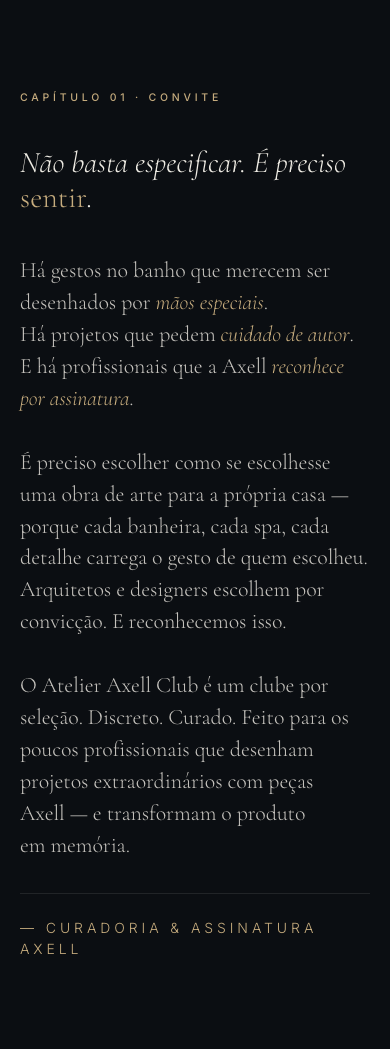
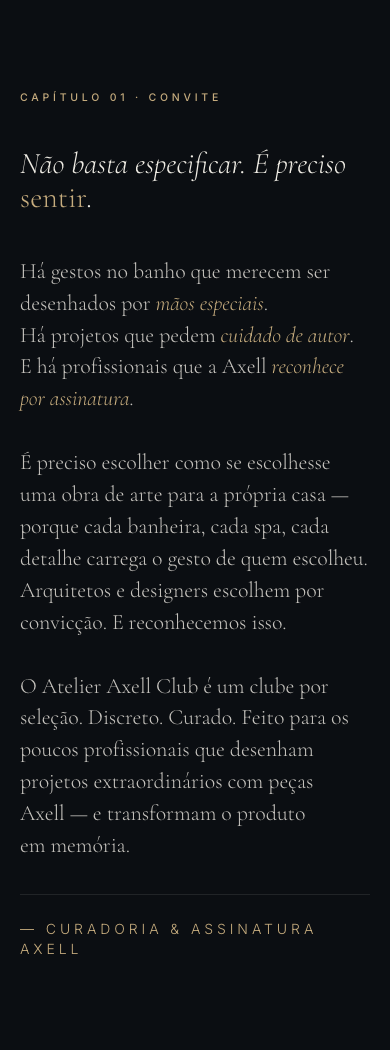
feat: approved no-class convite at /atelier/convite/
Chapter label h2 with the prefix from block CSS, title p > strong, the copy
as a quote signed in its citation, and the left column with the new
"Sticky on desktop" column style (the source side is sticky above 900px,
which also changes how Chrome paints it). 0.00% at 1440/768/390 against the
convite bases, now captured as the section on its own.

diff --git a/content/pages/convite.html b/content/pages/convite.html
@@ -1,0 +1,31 @@
+<!-- wp:group {"tagName":"section","metadata":{"name":"Convite"},"align":"full","style":{"spacing":{"padding":{"top":"clamp(5.625rem, 13vw, 11.25rem)","bottom":"clamp(5.625rem, 13vw, 11.25rem)","left":"clamp(1.25rem, 4vw, 3.75rem)","right":"clamp(1.25rem, 4vw, 3.75rem)"}}},"backgroundColor":"ink","layout":{"type":"default"},"anchor":"convite"} -->
+<section class="wp-block-group alignfull has-ink-background-color has-background" id="convite" style="padding-top:clamp(5.625rem, 13vw, 11.25rem);padding-right:clamp(1.25rem, 4vw, 3.75rem);padding-bottom:clamp(5.625rem, 13vw, 11.25rem);padding-left:clamp(1.25rem, 4vw, 3.75rem)"><!-- wp:group {"metadata":{"name":"Conteúdo"},"style":{"spacing":{"padding":{"left":"0","right":"0"}}},"layout":{"type":"constrained","contentSize":"calc(80rem - 2 * clamp(1.25rem, 4vw, 3.75rem))","justifyContent":"center"}} -->
+<div class="wp-block-group" style="padding-right:0;padding-left:0"><!-- wp:columns {"verticalAlignment":"top","style":{"spacing":{"blockGap":{"top":"2.5rem","left":"6.25rem"}}}} -->
+<div class="wp-block-columns are-vertically-aligned-top"><!-- wp:column {"verticalAlignment":"top","width":"calc((100% - 6.25rem) / 2.4)","metadata":{"name":"Lado"},"className":"is-style-sticky-desktop","style":{"spacing":{"blockGap":"0"}}} -->
+<div class="wp-block-column is-vertically-aligned-top is-style-sticky-desktop" style="flex-basis:calc((100% - 6.25rem) / 2.4)"><!-- wp:heading {"style":{"typography":{"fontSize":"0.65625rem","fontWeight":"500","letterSpacing":"0.36em","textTransform":"uppercase","lineHeight":"1.6"},"spacing":{"margin":{"top":"0","bottom":"2.5rem"}},"css":"text-wrap: wrap; \u0026::before { content: \u0022Capítulo 01 · \u0022; }"},"textColor":"bronze-2","fontFamily":"inter"} -->
+<h2 class="wp-block-heading has-custom-css has-bronze-2-color has-text-color has-inter-font-family" style="margin-top:0;margin-bottom:2.5rem;font-size:0.65625rem;font-weight:500;letter-spacing:0.36em;line-height:1.6;text-transform:uppercase">Convite</h2>
+<!-- /wp:heading -->
+
+<!-- wp:paragraph {"style":{"typography":{"fontSize":"clamp(1.875rem, 3.6vw, 2.75rem)","fontStyle":"italic","fontWeight":"300","lineHeight":"1.15"},"spacing":{"margin":{"top":"0","bottom":"0"}},"css":"text-wrap: wrap; \u0026 strong { font-weight: inherit; } \u0026 em { font-style: normal; color: var(\u002d\u002dwp\u002d\u002dpreset\u002d\u002dcolor\u002d\u002dbronze-2); }"},"textColor":"ivory","fontFamily":"cormorant-garamond"} -->
+<p class="has-custom-css has-ivory-color has-text-color has-cormorant-garamond-font-family" style="margin-top:0;margin-bottom:0;font-size:clamp(1.875rem, 3.6vw, 2.75rem);font-style:italic;font-weight:300;line-height:1.15"><strong>Não basta especificar. É preciso <em>sentir</em>.</strong></p>
+<!-- /wp:paragraph --></div>
+<!-- /wp:column -->
+
+<!-- wp:column {"verticalAlignment":"top","metadata":{"name":"Texto"}} -->
+<div class="wp-block-column is-vertically-aligned-top"><!-- wp:quote {"style":{"color":{"text":"rgba(239,236,228,0.82)"},"typography":{"fontSize":"clamp(1.375rem, 2.3vw, 1.875rem)","fontWeight":"300","lineHeight":"1.45","letterSpacing":"-0.005em","fontStyle":"normal"},"spacing":{"margin":{"top":"0","bottom":"0"},"padding":{"top":"0","right":"0","bottom":"0","left":"0"},"blockGap":"2rem"},"border":{"width":"0px","style":"none"},"css":"\u0026 p { margin-bottom: 0; text-wrap: pretty; } \u0026 em { font-style: italic; color: var(\u002d\u002dwp\u002d\u002dpreset\u002d\u002dcolor\u002d\u002dbronze-2); } \u0026 cite { display: block; text-wrap: wrap; margin-top: 2rem; padding-top: 1.5rem; border-top: 1px solid var(\u002d\u002dwp\u002d\u002dpreset\u002d\u002dcolor\u002d\u002dline-dk); font-family: var(\u002d\u002dwp\u002d\u002dpreset\u002d\u002dfont-family\u002d\u002dinter); font-size: 0.875rem; font-style: normal; letter-spacing: 0.28em; text-transform: uppercase; color: var(\u002d\u002dwp\u002d\u002dpreset\u002d\u002dcolor\u002d\u002dbronze-2); }"},"fontFamily":"cormorant-garamond"} -->
+<blockquote class="wp-block-quote has-custom-css has-text-color has-cormorant-garamond-font-family" style="border-style:none;border-width:0px;color:rgba(239,236,228,0.82);margin-top:0;margin-bottom:0;padding-top:0;padding-right:0;padding-bottom:0;padding-left:0;font-size:clamp(1.375rem, 2.3vw, 1.875rem);font-style:normal;font-weight:300;letter-spacing:-0.005em;line-height:1.45"><!-- wp:paragraph -->
+<p>Há gestos no banho que merecem ser desenhados por <em>mãos especiais</em>.<br>Há projetos que pedem <em>cuidado de autor</em>.<br>E há profissionais que a Axell <em>reconhece por assinatura</em>.</p>
+<!-- /wp:paragraph -->
+
+<!-- wp:paragraph -->
+<p>É preciso escolher como se escolhesse uma obra de arte para a própria casa — porque cada banheira, cada spa, cada detalhe carrega o gesto de quem escolheu. Arquitetos e designers escolhem por convicção. E reconhecemos isso.</p>
+<!-- /wp:paragraph -->
+
+<!-- wp:paragraph -->
+<p>O Atelier Axell Club é um clube por seleção. Discreto. Curado. Feito para os poucos profissionais que desenham projetos extraordinários com peças Axell — e transformam o produto em memória.</p>
+<!-- /wp:paragraph --><cite>— Curadoria &amp; Assinatura Axell</cite></blockquote>
+<!-- /wp:quote --></div>
+<!-- /wp:column --></div>
+<!-- /wp:columns --></div>
+<!-- /wp:group --></section>
+<!-- /wp:group -->

diff --git a/build/block-styles/style-frontend-rtl.css b/build/block-styles/style-frontend-rtl.css
@@ -1,1 +1,1 @@
-.wp-block-button.is-style-primary .wp-block-button__link{align-items:center;display:inline-flex;gap:.875rem;transition:background-color .4s ease,border-color .4s ease,color .4s ease;white-space:nowrap}.wp-block-button.is-style-primary .wp-block-button__link .aa-inline-icon{flex:none;height:10px;transition:transform .4s ease;width:18px}.wp-block-button.is-style-primary .wp-block-button__link:hover{background-color:var(--wp--preset--color--bronze-2)!important;border-color:var(--wp--preset--color--bronze-2)!important}.wp-block-button.is-style-primary .wp-block-button__link:hover .aa-inline-icon{transform:translateX(-5px)}.wp-block-navigation.is-style-bronze-hover .wp-block-navigation-item__content{padding:.5rem;transition:color .3s ease}.wp-block-navigation.is-style-bronze-hover .wp-block-navigation-item__content:hover{color:var(--wp--preset--color--bronze-2);text-decoration:none}.wp-block-image.is-style-ivory img{filter:brightness(0) saturate(100%) invert(92%) sepia(5%) saturate(597%) hue-rotate(332deg) brightness(108%) contrast(87%)}.wp-block-group.is-style-visually-hidden{height:1px;margin:-1px;overflow:hidden;padding:0;position:absolute!important;width:1px;clip:rect(0,0,0,0);border:0;white-space:nowrap}p.is-style-eyebrow{align-items:center;display:inline-flex;gap:1.25rem}p.is-style-eyebrow:after,p.is-style-eyebrow:before{background:currentcolor;content:"";display:inline-block;height:1px;opacity:.5;width:2.5rem}:is(.page-template-atelier-section,.page-template-atelier-club) .wp-block-button.is-style-outline .wp-block-button__link{transition:all .4s ease}:is(.page-template-atelier-section,.page-template-atelier-club) .wp-block-button.is-style-outline .wp-block-button__link:hover{background-color:transparent!important;border-color:var(--wp--preset--color--bronze-2)!important;color:var(--wp--preset--color--bronze-2)!important}
+.wp-block-button.is-style-primary .wp-block-button__link{align-items:center;display:inline-flex;gap:.875rem;transition:background-color .4s ease,border-color .4s ease,color .4s ease;white-space:nowrap}.wp-block-button.is-style-primary .wp-block-button__link .aa-inline-icon{flex:none;height:10px;transition:transform .4s ease;width:18px}.wp-block-button.is-style-primary .wp-block-button__link:hover{background-color:var(--wp--preset--color--bronze-2)!important;border-color:var(--wp--preset--color--bronze-2)!important}.wp-block-button.is-style-primary .wp-block-button__link:hover .aa-inline-icon{transform:translateX(-5px)}.wp-block-navigation.is-style-bronze-hover .wp-block-navigation-item__content{padding:.5rem;transition:color .3s ease}.wp-block-navigation.is-style-bronze-hover .wp-block-navigation-item__content:hover{color:var(--wp--preset--color--bronze-2);text-decoration:none}.wp-block-image.is-style-ivory img{filter:brightness(0) saturate(100%) invert(92%) sepia(5%) saturate(597%) hue-rotate(332deg) brightness(108%) contrast(87%)}.wp-block-group.is-style-visually-hidden{height:1px;margin:-1px;overflow:hidden;padding:0;position:absolute!important;width:1px;clip:rect(0,0,0,0);border:0;white-space:nowrap}p.is-style-eyebrow{align-items:center;display:inline-flex;gap:1.25rem}p.is-style-eyebrow:after,p.is-style-eyebrow:before{background:currentcolor;content:"";display:inline-block;height:1px;opacity:.5;width:2.5rem}:is(.page-template-atelier-section,.page-template-atelier-club) .wp-block-button.is-style-outline .wp-block-button__link{transition:all .4s ease}:is(.page-template-atelier-section,.page-template-atelier-club) .wp-block-button.is-style-outline .wp-block-button__link:hover{background-color:transparent!important;border-color:var(--wp--preset--color--bronze-2)!important;color:var(--wp--preset--color--bronze-2)!important}@media(min-width:56.3125rem){.wp-block-column.is-style-sticky-desktop{position:sticky;top:7.5rem}}

diff --git a/build/block-styles/style-frontend.css b/build/block-styles/style-frontend.css
@@ -1,1 +1,1 @@
-.wp-block-button.is-style-primary .wp-block-button__link{align-items:center;display:inline-flex;gap:.875rem;transition:background-color .4s ease,border-color .4s ease,color .4s ease;white-space:nowrap}.wp-block-button.is-style-primary .wp-block-button__link .aa-inline-icon{flex:none;height:10px;transition:transform .4s ease;width:18px}.wp-block-button.is-style-primary .wp-block-button__link:hover{background-color:var(--wp--preset--color--bronze-2)!important;border-color:var(--wp--preset--color--bronze-2)!important}.wp-block-button.is-style-primary .wp-block-button__link:hover .aa-inline-icon{transform:translateX(5px)}.wp-block-navigation.is-style-bronze-hover .wp-block-navigation-item__content{padding:.5rem;transition:color .3s ease}.wp-block-navigation.is-style-bronze-hover .wp-block-navigation-item__content:hover{color:var(--wp--preset--color--bronze-2);text-decoration:none}.wp-block-image.is-style-ivory img{filter:brightness(0) saturate(100%) invert(92%) sepia(5%) saturate(597%) hue-rotate(332deg) brightness(108%) contrast(87%)}.wp-block-group.is-style-visually-hidden{height:1px;margin:-1px;overflow:hidden;padding:0;position:absolute!important;width:1px;clip:rect(0,0,0,0);border:0;white-space:nowrap}p.is-style-eyebrow{align-items:center;display:inline-flex;gap:1.25rem}p.is-style-eyebrow:after,p.is-style-eyebrow:before{background:currentcolor;content:"";display:inline-block;height:1px;opacity:.5;width:2.5rem}:is(.page-template-atelier-section,.page-template-atelier-club) .wp-block-button.is-style-outline .wp-block-button__link{transition:all .4s ease}:is(.page-template-atelier-section,.page-template-atelier-club) .wp-block-button.is-style-outline .wp-block-button__link:hover{background-color:transparent!important;border-color:var(--wp--preset--color--bronze-2)!important;color:var(--wp--preset--color--bronze-2)!important}
+.wp-block-button.is-style-primary .wp-block-button__link{align-items:center;display:inline-flex;gap:.875rem;transition:background-color .4s ease,border-color .4s ease,color .4s ease;white-space:nowrap}.wp-block-button.is-style-primary .wp-block-button__link .aa-inline-icon{flex:none;height:10px;transition:transform .4s ease;width:18px}.wp-block-button.is-style-primary .wp-block-button__link:hover{background-color:var(--wp--preset--color--bronze-2)!important;border-color:var(--wp--preset--color--bronze-2)!important}.wp-block-button.is-style-primary .wp-block-button__link:hover .aa-inline-icon{transform:translateX(5px)}.wp-block-navigation.is-style-bronze-hover .wp-block-navigation-item__content{padding:.5rem;transition:color .3s ease}.wp-block-navigation.is-style-bronze-hover .wp-block-navigation-item__content:hover{color:var(--wp--preset--color--bronze-2);text-decoration:none}.wp-block-image.is-style-ivory img{filter:brightness(0) saturate(100%) invert(92%) sepia(5%) saturate(597%) hue-rotate(332deg) brightness(108%) contrast(87%)}.wp-block-group.is-style-visually-hidden{height:1px;margin:-1px;overflow:hidden;padding:0;position:absolute!important;width:1px;clip:rect(0,0,0,0);border:0;white-space:nowrap}p.is-style-eyebrow{align-items:center;display:inline-flex;gap:1.25rem}p.is-style-eyebrow:after,p.is-style-eyebrow:before{background:currentcolor;content:"";display:inline-block;height:1px;opacity:.5;width:2.5rem}:is(.page-template-atelier-section,.page-template-atelier-club) .wp-block-button.is-style-outline .wp-block-button__link{transition:all .4s ease}:is(.page-template-atelier-section,.page-template-atelier-club) .wp-block-button.is-style-outline .wp-block-button__link:hover{background-color:transparent!important;border-color:var(--wp--preset--color--bronze-2)!important;color:var(--wp--preset--color--bronze-2)!important}@media(min-width:56.3125rem){.wp-block-column.is-style-sticky-desktop{position:sticky;top:7.5rem}}

diff --git a/src/block-styles/style.scss b/src/block-styles/style.scss
@@ -97,3 +97,12 @@ p.is-style-eyebrow {
 		background-color: transparent !important;
 	}
 }
+
+// "Sticky on desktop" column: stays in view while the other column scrolls,
+// above 900px, like design/source .manifesto-side (static when stacked).
+.wp-block-column.is-style-sticky-desktop {
+	@media (min-width: 56.3125rem) {
+		position: sticky;
+		top: 7.5rem;
+	}
+}

diff --git a/includes/class-design-tokens.php b/includes/class-design-tokens.php
@@ -150,6 +150,7 @@ final class Design_Tokens {
 			'core/image'      => array( 'ivory', __( 'Ivory', 'axellcore-atelierclub' ) ),
 			'core/group'      => array( 'visually-hidden', __( 'Visually hidden', 'axellcore-atelierclub' ) ),
 			'core/paragraph'  => array( 'eyebrow', __( 'Eyebrow', 'axellcore-atelierclub' ) ),
+			'core/column'     => array( 'sticky-desktop', __( 'Sticky on desktop', 'axellcore-atelierclub' ) ),
 		);
 		foreach ( $styles as $block => list( $name, $label ) ) {
 			register_block_style(

diff --git a/build/block-styles/frontend.asset.php b/build/block-styles/frontend.asset.php
@@ -2,5 +2,5 @@
 	'dependencies' => array(
 		
 	),
-	'version' => 'd5bc19563f04c67e0add'
+	'version' => 'f93963a23bbefc8be278'
 );

diff --git a/design/atelier-axell-club.CHANGELOG.md b/design/atelier-axell-club.CHANGELOG.md
@@ -63,3 +63,5 @@ bases it generated are kept in `bootstrap/original/`.
 | 2026-10-06 | RESULT (hero photo, srcset, stamp quotes, hero headings): hero bases are the `source/hero/` page on its own; hero and full-page bases regenerated with the photo as `img.hero-photo` (WordPress srcset/sizes), curly stamp quotes and the visually hidden page h1. Sizes unchanged (hero 1440 x 1216, 768 x 1115, 390 x 1184). sha256: desktop 43588ba7..., tablet 9a4dc1a8..., mobile 5470675c..., hero/desktop 36105bba..., hero/tablet 03cb3a41..., hero/mobile ad0a02c5.... WordPress `/atelier/hero/` (post 829) matches at 0.00% at 1440, 768 and 390 (two runs). | Yes |
 | 2026-10-06 | APPLIED (section names as h2): the chapter label is the section h2 with only the name (Convite, Manifesto, A Placa, Protagonistas, Proposta, O Nome, Como Entrar, Níveis, Benefícios, Editorial); "Capítulo NN ·" comes from CSS (`.chapterNN` class on the section, `::before`); the big line under it becomes `p.section-title > strong` (`p.manifesto-title` in the convite); the convite copy is a `blockquote` signed by `cite.sig`. `h2.eyebrow` is an inline-block with the rule as an absolute `::after` (padding 46px), the prefix spacing as a margin in em, and `vertical-align: -0.2008928571em` keeping the label on its baseline. Heights and positions unchanged; the name now starts at a whole 1/64px, so a few glyphs anti-alias differently (desktop: Manifesto, Benefícios; tablet: Níveis; mobile: Protagonistas, Proposta). | Yes: full-page bases regenerated, section bases cropped from them at the same offsets and sizes |
 | 2026-10-06 | RESULT (section names as h2): full-page bases regenerated (sizes unchanged). sha256: desktop 7c2f2a56..., tablet 9ef52e91..., mobile fa1717c4.... Section bases of convite to editorial cropped from them at their previous offsets: only those glyphs changed. | Yes |
+| 2026-10-06 | Convite bases are now the section element of `source/convite/` on its own (`shot-file-element.mjs`, `main > section`), like the footer: a crop of the full page carries the section's fractional offset (1216.047px), which changes the anti-aliasing of the whole section against a page with the section alone (the WordPress section page). sha256: desktop cd9862e4..., tablet 2dc7b331..., mobile c7266833.... | Yes (convite) |
+| 2026-10-06 | RESULT (convite styled): WordPress `/atelier/convite/` (post 862) matches the convite bases at 0.00% at 1440, 768 and 390 (two runs). Needed: the source `.manifesto-side` is sticky above 900px and Chrome paints sticky boxes on their own layer (1 level of anti-aliasing), so the left column uses the new "Sticky on desktop" block style. | No (bases unchanged) |
